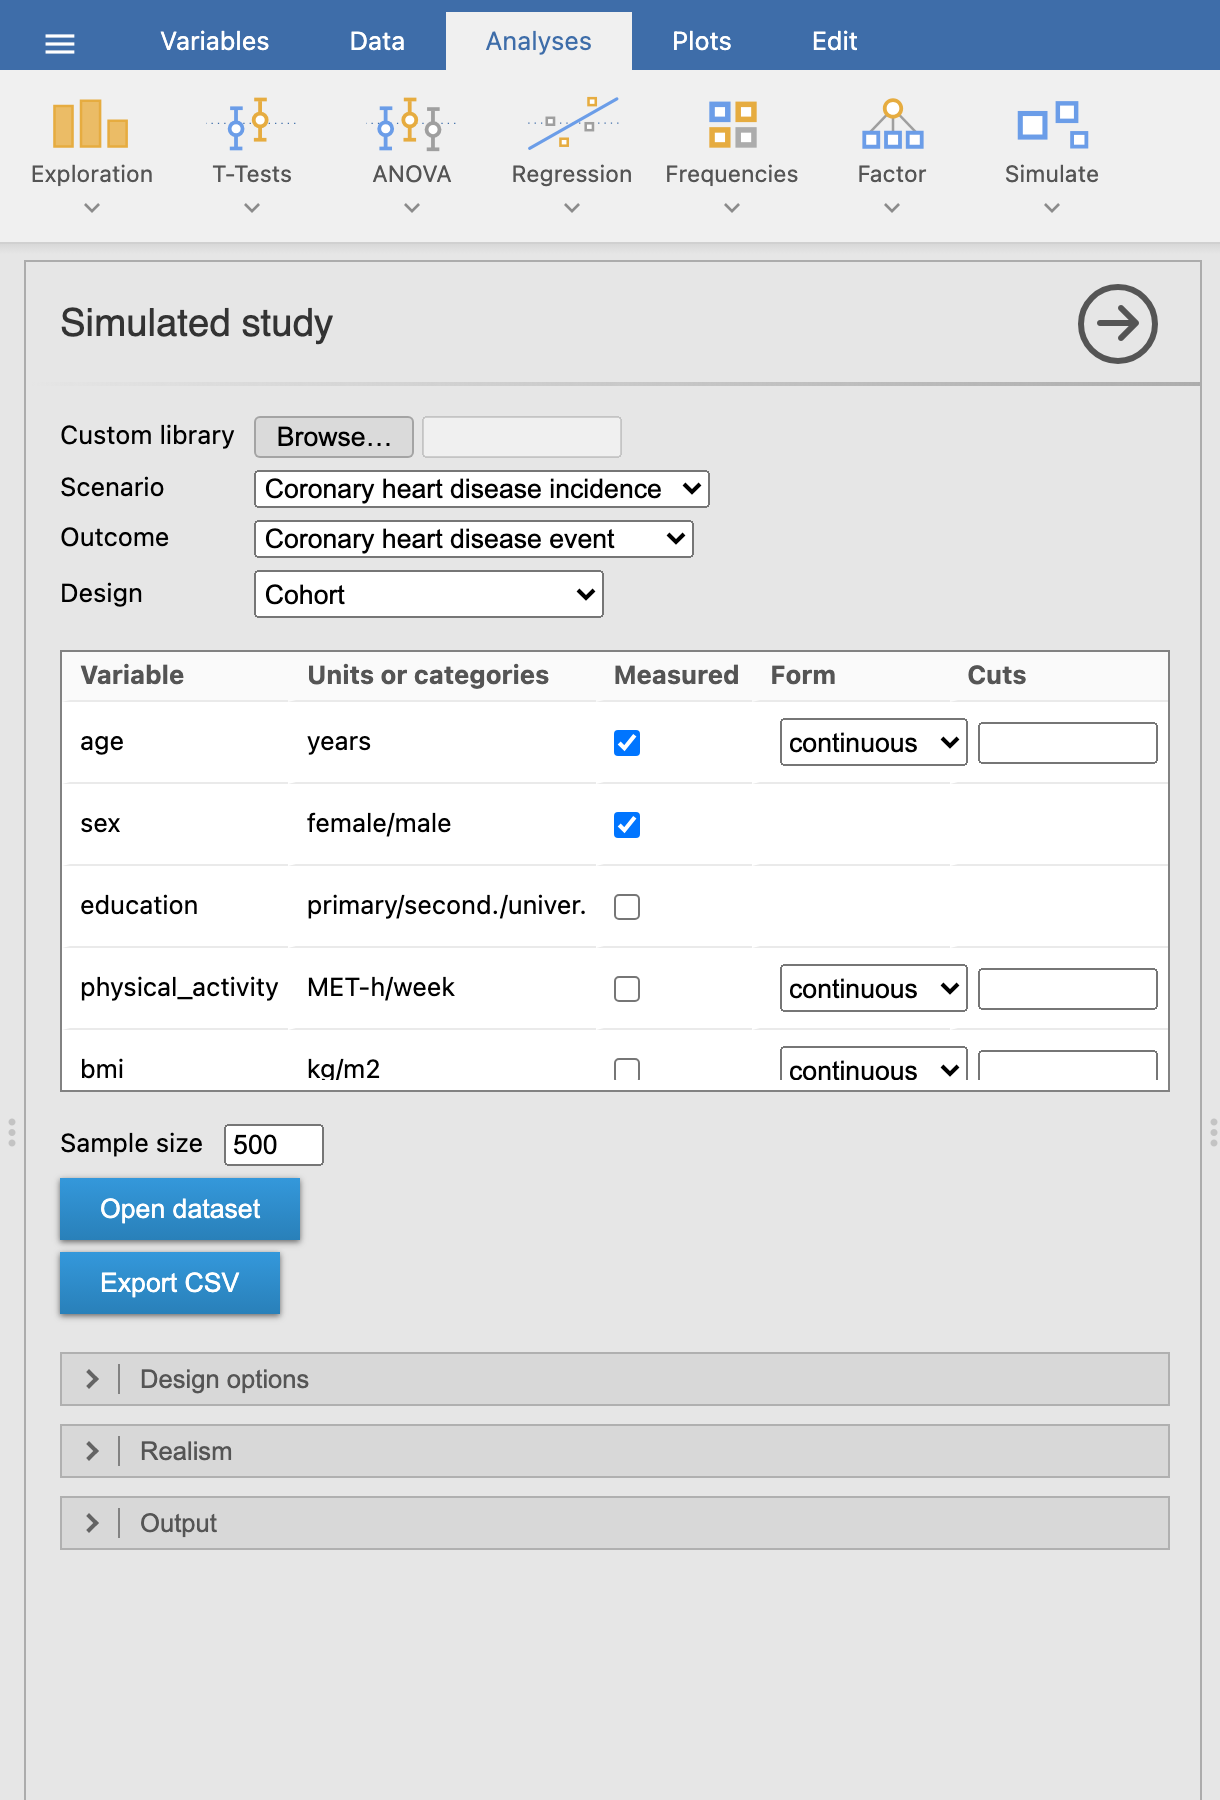
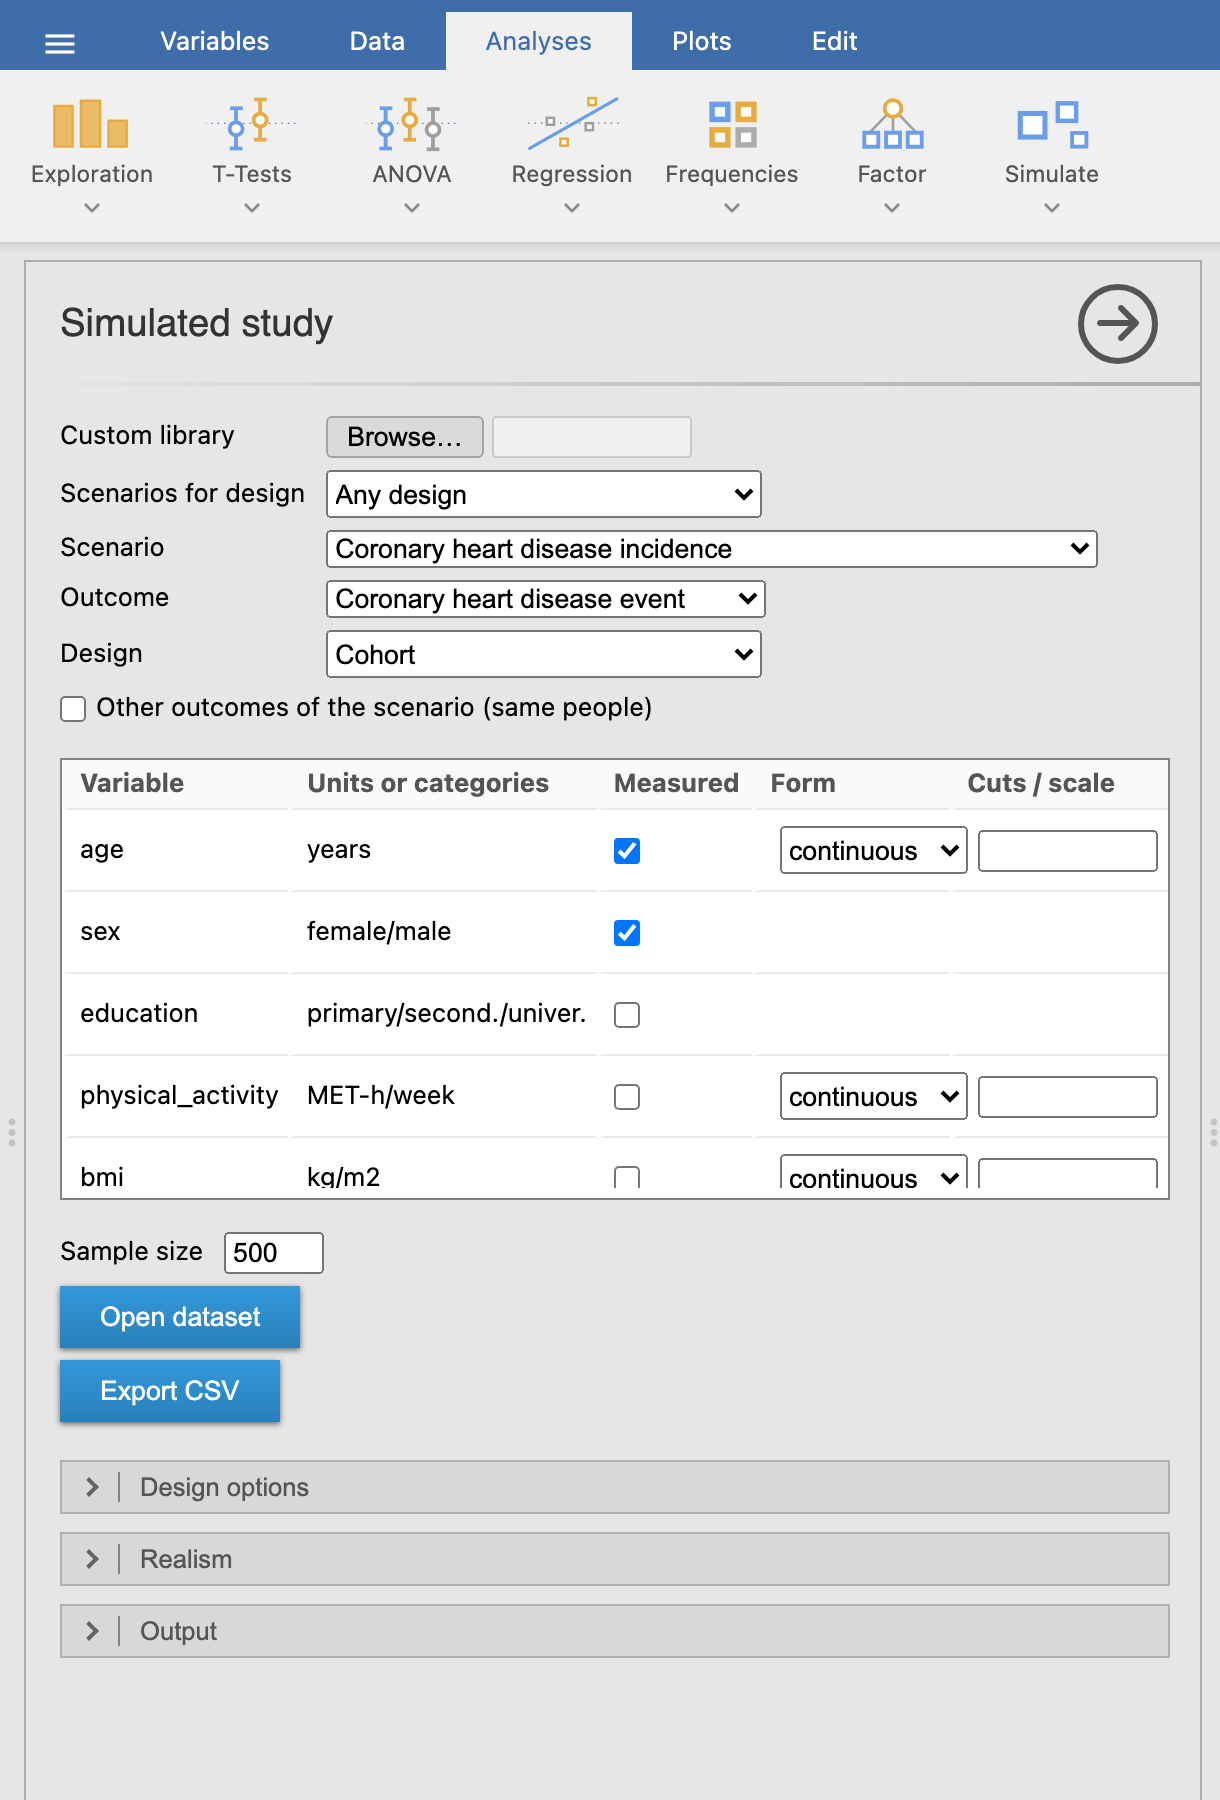
Tutorial: new jamovi screenshots (28.4 docker), realism, several outcomes, Compare designs
- capture.py follows the current panel (design filter, all measured, DAG on by default)
- new shots s14 realism, s15/s17 Compare designs, s16 SPRINT several outcomes
- tutorial re-rendered

diff --git a/docs/simulated-study.html b/docs/simulated-study.html
@@ -404,13 +404,25 @@ ul.task-list li input[type="checkbox"] {
 <li><strong>measurement error</strong>: the reliability of numeric measures and a share of misclassified categories, non-differential. The answer key uses the same error, so it shows how much the estimates are diluted and how much confounding remains;</li>
 <li><strong>data-entry errors</strong> (decimal slips, swapped digits, 999 codes) to find and clean, and <strong>extra variables</strong> with no effect (<code>extra_01</code>, …) for multiple testing and variable selection;</li>
 <li><strong>laboratory</strong>: values below a marker’s or a biomarker’s detection limit reported as missing, as LOD/2 or as the LOD; diagnostic markers run in <strong>batches</strong>, optionally with cases and controls in separate batches.</li>
-</ul></li>
+</ul>
+<div class="quarto-figure quarto-figure-center">
+<figure class="figure">
+<p><img src="screenshots/s14-realism.png" class="screenshot img-fluid figure-img" style="width:60.0%"></p>
+<figcaption>Realism options.</figcaption>
+</figure>
+</div></li>
 <li><em>Output</em>: seed and <strong>student key</strong> (any text, e.g.&nbsp;a student ID: each key gives a different dataset from the same options), which tables to show, and <strong>Answer key report</strong>, which saves the whole key (true model, what the design should estimate, markers, diagram, notes) as one HTML page for the teacher.</li>
 </ul>
 </section>
 <section id="several-outcomes-in-one-study" class="level3">
 <h3 class="anchored" data-anchor-id="several-outcomes-in-one-study">Several outcomes in one study</h3>
 <p>Most trials record several outcomes. <em>Other outcomes of the scenario (same people)</em> adds every other outcome of the scenario as columns for the same people (cross-sectional, cohort, prognosis and trial designs), and the answer key gets a block per outcome. Outcomes can be linked (correlated beyond their common causes, e.g.&nbsp;HbA1c and control below 7%), and overall survival can be built from a first event (an illness-death model: in the colon cancer trial, death after recurrence). The SPRINT scenario has a primary outcome, death and three harms, to weigh benefits against harms and to see what testing many outcomes does.</p>
+<div class="quarto-figure quarto-figure-center">
+<figure class="figure">
+<p><img src="screenshots/s16-several-outcomes.png" class="screenshot img-fluid figure-img"></p>
+<figcaption>SPRINT with the other outcomes: the answer key has the intervention effect on each outcome.</figcaption>
+</figure>
+</div>
 </section>
 <section id="two-more-designs" class="level3">
 <h3 class="anchored" data-anchor-id="two-more-designs">Two more designs</h3>
@@ -478,12 +490,24 @@ ul.task-list li input[type="checkbox"] {
 <section id="compare-designs" class="level2">
 <h2 class="anchored" data-anchor-id="compare-designs">Compare designs</h2>
 <p><em>Simulate ▸ Compare designs</em> takes one scenario and outcome, the measured variables and a sample size, and simulates every ticked design from the <strong>same population</strong> (same seed and student key); designs that do not fit the outcome are hidden. It shows:</p>
+<div class="quarto-figure quarto-figure-center">
+<figure class="figure">
+<p><img src="screenshots/s15-compare.png" class="screenshot img-fluid figure-img"></p>
+<figcaption>Compare designs: breast cancer with four measured variables, three designs from the same population.</figcaption>
+</figure>
+</div>
 <ul>
 <li><strong>Studies</strong>: rows, cases and controls, events, clusters or regions of each one;</li>
 <li><strong>Estimates by design</strong>: crude and adjusted estimates with their 95% CI next to the true values, and optionally what each design gives in a large study;</li>
 <li>a <strong>forest plot</strong> of the same estimates, one panel per contrast;</li>
 <li>the <strong>causal diagram</strong> with the effect sizes, once, because it is the same for every design: what changes between designs is how the population is sampled, not how it works.</li>
 </ul>
+<div class="quarto-figure quarto-figure-center">
+<figure class="figure">
+<p><img src="screenshots/s17-compare-plot.png" class="screenshot img-fluid figure-img"></p>
+<figcaption>Estimates plot: the cohort of 500 women has 10 cases, so its intervals are far wider than the case-control studies’.</figcaption>
+</figure>
+</div>
 <p><em>Open dataset</em> stacks all the studies in one dataset with a <code>design</code> column, to analyse them with jamovi’s filters. Typical exercises: a case-control vs a cohort study of a rare cancer (same estimates, very different precision for the same number of people), a parallel vs a crossover trial, an ecological vs an individual-level analysis.</p>
 
 

diff --git a/tutorial/screenshots/capture.py b/tutorial/screenshots/capture.py
@@ -50,12 +50,15 @@ with sync_playwright() as p:
     fr = jc.run_analysis(page, "Simulate", "Simulated study", exact=False)
     wait_text(page, "cases and")
     fr.locator("select.studysim-pick").nth(0).select_option("chd_incidence"); page.wait_for_timeout(3000)
-    fr.locator("select.silky-option-combo-input").first.select_option(label="Cohort"); page.wait_for_timeout(3000)
+    # the first combo is the design filter, the second the design
+    design = fr.locator("select.silky-option-combo-input").nth(1)
+    design.select_option(label="Cohort"); page.wait_for_timeout(3000)
     ids = [t.strip() for t in fr.locator(".list-item-cell .silky-control-label").all_inner_texts()][0::2]
     boxes = fr.locator(".list-item-cell input[type=checkbox]")
     forms = fr.locator(".list-item-cell select")
-    for v in ["age", "sex", "smoking", "sbp", "coffee"]:
-        boxes.nth(ids.index(v)).check(force=True); page.wait_for_timeout(500)
+    # every variable is measured by default: untick those left out
+    for v in ["education", "physical_activity", "bmi", "cigarettes", "total_chol", "hdl", "diabetes"]:
+        boxes.nth(ids.index(v)).uncheck(force=True); page.wait_for_timeout(500)
     forms.nth(ids.index("sbp")).select_option(label="quartiles"); page.wait_for_timeout(3000)
     wait_text(page, "Q4: >")          # results of this scenario, not the previous one
     page.wait_for_timeout(3000)
@@ -68,9 +71,7 @@ with sync_playwright() as p:
     shot_item(page, "Descriptives", "s04-descriptives.png")
 
     jc.expand_section(fr, "Output")
-    jc.check_option(fr, "Causal diagram (DAG)")
-    jc.check_option(fr, "Effect sizes on the diagram")
-    jc.check_option(fr, "Answer key")
+    jc.check_option(fr, "Answer key")     # the diagram with effects is on by default
     wait_text(page, "should be close") or wait_text(page, "Expected values")
     page.wait_for_timeout(4000)
     shot_item(page, "Causal diagram", "s05-dag.png")
@@ -79,7 +80,10 @@ with sync_playwright() as p:
 
     jc.expand_section(fr, "Design options")
     page.wait_for_timeout(800)
-    jc.screenshot_section(page, fr, "Design options", out("s09-design-options.png"), stop_label="Output")
+    jc.screenshot_section(page, fr, "Design options", out("s09-design-options.png"), stop_label="Realism")
+    jc.expand_section(fr, "Realism")
+    page.wait_for_timeout(800)
+    jc.screenshot_section(page, fr, "Realism", out("s14-realism.png"), stop_label="Output")
 
     n = len(ctx.pages)
     fr.get_by_text("Open dataset", exact=True).click()
@@ -90,7 +94,45 @@ with sync_playwright() as p:
         dp = ctx.pages[-1]; dp.set_viewport_size({"width": 1440, "height": 700}); dp.wait_for_timeout(12000)
         dp.screenshot(path=out("s10-dataset.png")); dp.close()
 
+    # Several outcomes: SPRINT, with the other outcomes of the same people
+    # (a fresh instance, so the results hold only this analysis)
+    page.goto(jc.JAMOVI_URL); page.wait_for_timeout(6000)
+    fr = jc.run_analysis(page, "Simulate", "Simulated study", exact=False)
+    wait_text(page, "cases and")
+    fr.locator("select.studysim-pick").nth(0).select_option("sprint_blood_pressure"); page.wait_for_timeout(4000)
+    jc.check_option(fr, "Other outcomes of the scenario (same people)")
+    jc.expand_section(fr, "Output")
+    jc.check_option(fr, "Answer key")
+    wait_text(page, "Answer key: what this design should estimate", 60)
+    page.wait_for_timeout(6000)
+    # the table is wide: a wider window for this one
+    page.set_viewport_size({"width": 2300, "height": 1000}); page.wait_for_timeout(3000)
+    shot_item(page, "Answer key: what this design should estimate", "s16-several-outcomes.png")
+    page.set_viewport_size({"width": 1440, "height": 1000})
+
+    # Compare designs: breast cancer, its default designs
+    page.goto(jc.JAMOVI_URL); page.wait_for_timeout(6000)
+    fr = jc.run_analysis(page, "Simulate", "Compare designs", exact=False)
+    wait_text(page, "Estimates by design", 60)
+    # four variables keep the table and the plot short
+    page.wait_for_timeout(3000)
+    ids = [t.strip() for t in fr.locator(".list-item-cell .silky-control-label").all_inner_texts()][0::2]
+    boxes = fr.locator(".list-item-cell input[type=checkbox]")
+    for v in ids:
+        if v not in ("age", "menopause", "hrt", "family_hist"):
+            boxes.nth(ids.index(v)).uncheck(force=True); page.wait_for_timeout(400)
+    wait_text(page, "All designs sample the same superpopulation", 90)
+    page.wait_for_timeout(8000)
+    page.screenshot(path=out("s15-compare.png"))
+    for f in page.frames:
+        if jc.HOST_C not in f.url: continue
+        imgs = f.locator(".jmv-results-image-image")
+        if imgs.count():
+            imgs.last.scroll_into_view_if_needed(); page.wait_for_timeout(1500)
+            imgs.last.screenshot(path=out("s17-compare-plot.png"))
+
     # Library
+    page.goto(jc.JAMOVI_URL); page.wait_for_timeout(6000)
     fr = jc.run_analysis(page, "Simulate", "Library", exact=False)
     wait_text(page, "No problems found")
     fr.locator("select.studysim-pick").first.select_option("breast_cancer_risk"); page.wait_for_timeout(4000)
